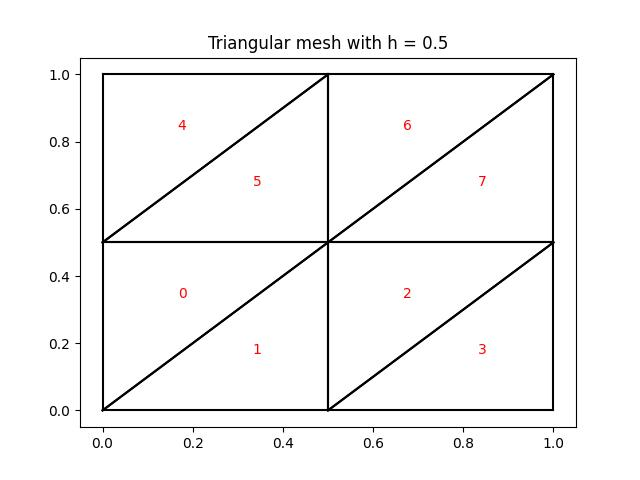
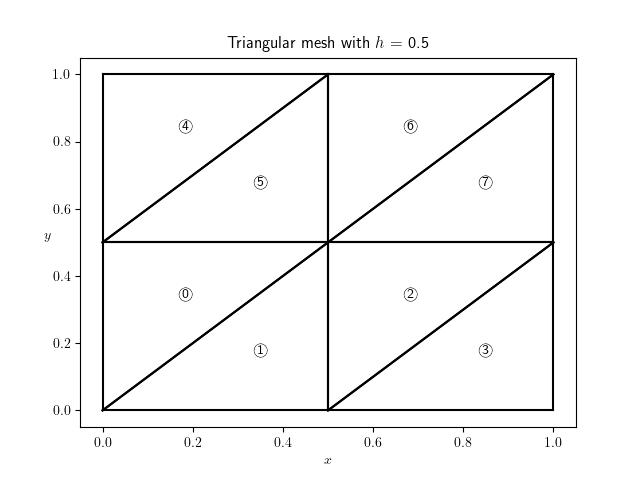
z3 element matrices now work

diff --git a/PoissonZ3.py b/PoissonZ3.py
@@ -1,5 +1,9 @@
 import numpy as np
 import matplotlib.pyplot as plt
+from scipy import integrate
+import cProfile
+plt.rcParams['text.usetex'] = True #for nice plots
+import time
 class Triangle:
     def __init__(self, vertices, VertexNumbers, GlobalNumber = 0):
         self.x_0 = np.array(vertices[0])
@@ -7,9 +11,7 @@ class Triangle:
         self.x_2 = np.array(vertices[2])
         self.vertices = vertices
         self.GlobalNumber = GlobalNumber
-        self.VertexNumbers = VertexNumbers
-        self.bvector = [self.x_1[1]- self.x_2[1], self.x_2[1]- self.x_0[1], self.x_0[1]- self.x_1[1]] #useful later
-        self.cvector = [self.x_2[0]- self.x_1[0], self.x_0[0]- self.x_2[0], self.x_1[0]- self.x_0[0]]
+        self.VertexNumbers = rearange_vertices(VertexNumbers)
     def area(self):
         return 0.5 * np.abs(np.cross(self.x_1 - self.x_0, self.x_2 - self.x_0))
     def __str__(self):
@@ -42,7 +44,14 @@ class Triangle:
             RHS[i] = 1
             solution.append(np.linalg.solve(LHS, RHS))
         return np.array(solution)
-
+def rearange_vertices(lst):
+    ## for vertex ordering
+    res = list()
+    for i in lst:
+        res.append(3*i)
+        res.append(3*i+1)
+        res.append(3*i+2)
+    return res
 
 class Vertex:
     def __init__(self, coordinates, global_number, boundary):
@@ -64,29 +73,63 @@ class Mesh:
             plt.plot([triangle.x_1[0], triangle.x_2[0]], [triangle.x_1[1], triangle.x_2[1]], 'k-')
             plt.plot([triangle.x_2[0], triangle.x_0[0]], [triangle.x_2[1], triangle.x_0[1]], 'k-')
             if numbering:
-                plt.text(triangle.COM()[0], triangle.COM()[1], str(triangle.GlobalNumber), color = 'red')
-                # plt.text(triangle.x_0[0], triangle.x_0[1], str(triangle.VertexNumbers[0]))
-                # plt.text(triangle.x_1[0], triangle.x_1[1], str(triangle.VertexNumbers[1]))
-                # plt.text(triangle.x_2[0], triangle.x_2[1], str(triangle.VertexNumbers[2]))
-        plt.title(f"Triangular mesh with h = {self.h}")
-        plt.savefig("mesh.jpg")
+                plt.text(triangle.COM()[0], triangle.COM()[1], str(fr"\textcircled{triangle.GlobalNumber}")) #color = 'red')
+                plt.text(triangle.x_0[0], triangle.x_0[1], 0)#str(triangle.VertexNumbers[0]))
+                plt.text(triangle.x_1[0], triangle.x_1[1], 1)#str(triangle.VertexNumbers[1]))
+                plt.text(triangle.x_2[0], triangle.x_2[1], 2)#str(triangle.VertexNumbers[2]))
+        plt.title(fr"Triangular mesh with $h$ = {self.h}")
+        plt.xlabel(r'$x$')
+        plt.ylabel(r'$y$', rotation = 0)
+        plt.show()
     def WhatsInside(self):
         for triangle in self.triangles:
             print(triangle)
     def ConnectivityMatrix(self):
-        CMatrix = np.zeros((len(self.triangles), 3))
+        CMatrix = np.zeros((len(self.triangles), 10))
         for i in range(len(self.triangles)):
-            for j in range(3):
+            for j in range(10):
                 CMatrix[i][j] = self.triangles[i].VertexNumbers[j]
         return CMatrix
 class PoissonZ3Solver:
-    def __init__(self, mesh, bc):
+    def __init__(self, mesh, bc=0):
         self.mesh = mesh
         self.bc = bc
     def IntegrationMatrixLHS(self):
+        # x = sp.Symbol('x')
+        # y = sp.Symbol("y")
+        # symb_vec =np.array([1, x, y, x**2, y**2, x*y, x**3, y**3, x**2*y, x*y**2])
+        power_vec =[[0,0], [1, 0], [0, 1], [2, 0], [0,2], [1, 1], [3, 0], [0,3], [2, 1], [1,2]]
         n_triangles = len(self.mesh.triangles)
         ElementMatrix = np.zeros((n_triangles, 10, 10))
-        
+        for k in range(n_triangles):
+            c = self.mesh.triangles[k].LocalCubic() #coefficient matrix
+            for i in range(10):
+                for j in range(10):
+                    ## create a vector with c^i_kc^j_l coefficients as outlined in project
+                    if j>=i:#taking advantage of the symmetry
+                        v_0 = c[i][1]*c[j][1] + c[i][2]*c[j][2]
+                        v_1 = 2*c[i][3]*c[j][1] + 2*c[i][1]*c[j][3] +c[i][5]*c[j][2] +c[i][2]*c[j][5]
+                        v_2 = 2*c[i][4]*c[j][2] +2*c[i][4]*c[j][2] +c[i][5]*c[j][1] +c[i][1]*c[j][5]
+                        v_3 = 3*c[i][6]*c[j][1] +3*c[i][1]*c[j][6] +4*c[i][3]*c[j][3] +c[i][8]*c[j][2] +c[i][2]*c[j][8] +c[i][5]*c[j][5]
+                        v_4 = c[i][9]*c[j][1] +c[i][1]*c[j][9] +c[i][5]*c[j][5] +3*c[i][7]*c[j][2] +3*c[i][2]*c[j][7] +4*c[i][4]*c[j][4]
+                        v_5 = 2*c[i][8]*c[j][1] +2*c[i][1]*c[j][8] +c[i][5]*c[j][3] +c[i][3]*c[j][5] +2*c[i][2]*c[j][9] +2*c[i][9]*c[j][2] +c[i][5]*c[j][4] +c[i][4]*c[j][5]
+                        v_6 = 6*c[i][3]*c[j][6] +6*c[i][6]*c[j][3] +c[i][5]*c[j][8] +c[i][8]*c[j][5]
+                        v_7 = c[i][5]*c[j][9] +c[i][9]*c[j][5] +6*c[i][4]*c[j][7] +6*c[i][7]*c[j][4]
+                        v_8 = 3*c[i][6]*c[j][5] +3*c[i][5]*c[j][6] +4*c[i][3]*c[j][8] +4*c[i][8]*c[j][3] +2*c[i][8]*c[j][4] +2*c[i][4]*c[j][8] +2*c[i][5]*c[j][9] +2*c[i][9]*c[j][5]
+                        v_9 = 3*c[i][7]*c[j][5] +3*c[i][5]*c[j][7] +4*c[i][4]*c[j][9]+ 4*+c[i][9]*c[j][4] +2*c[i][8]*c[j][5] +2*c[i][5]*c[j][8] +2*c[i][3]*c[j][9] +2*c[i][9]*c[j][3]
+                        vec = np.array([v_0, v_1, v_2, v_3, v_4, v_5, v_6, v_7, v_8, v_9])
+                        for numb in range(10):## integration over the triangles, probably better to do analytically
+                            f = lambda x,y: x**(power_vec[numb][0])*y**(power_vec[numb][1])
+                            if i%2==0:##upward oriented
+                                val = integrate.dblquad(f, self.mesh.triangles[k].x_2[0], self.mesh.triangles[k].x_2[0]+self.mesh.h,
+                                                                                     lambda x: x-self.mesh.triangles[k].x_2[0]+self.mesh.triangles[k].x_2[1]-self.mesh.h, self.mesh.triangles[k].x_2[1])[0]
+                                ElementMatrix[k][i][j]+=vec[numb]*val
+                            else:##downward oriented
+                                ElementMatrix[k][i][j]+=vec[numb]*integrate.dblquad(f, self.mesh.triangles[k].x_0[0]-self.mesh.h, self.mesh.triangles[k].x_0[0],
+                                                                                    self.mesh.triangles[k].x_0[1],lambda x: x-self.mesh.triangles[k].x_0[0]+self.mesh.triangles[k].x_0[1]+self.mesh.h)[0]
+                    else:
+                        ElementMatrix[k][i][j] = ElementMatrix[k][j][i]
+        return ElementMatrix
 def generateMesh_UnitSquare(h = 0.2):
     x = y = np.linspace(0, 1, int(1/h)+1)
     x_grid, y_grid = np.meshgrid(x, y)
@@ -112,12 +155,15 @@ def generateMesh_UnitSquare(h = 0.2):
             v2 = vertices[i+1][j]
             v3 = vertices[i+1][j+1]
             v4 = vertices[i][j+1]
-            triangles.append(Triangle([v1.coordinates, v2.coordinates, v3.coordinates], [v1.global_number, v2.global_number, v3.global_number], loopcounter)) ##lower triangle
-            triangles.append(Triangle([v4.coordinates, v1.coordinates, v3.coordinates], [v4.global_number, v1.global_number, v3.global_number], loopcounter+1)) ## upper triangle
+            triangles.append(Triangle([v1.coordinates, v3.coordinates, v2.coordinates], [v1.global_number, v3.global_number, v2.global_number], loopcounter)) ##lower triangle
+            triangles.append(Triangle([v4.coordinates, v3.coordinates, v1.coordinates], [v4.global_number, v3.global_number, v1.global_number], loopcounter+1)) ## upper triangle
             loopcounter+=2
     vertices = vertices.reshape((len(x)*len(y)))
     return Mesh(vertices, triangles, h)
 def main():
-    mesh = generateMesh_UnitSquare(1/2)
-    mesh.plot(numbering=True)
-main()
+    mesh = generateMesh_UnitSquare(0.25)
+    soln = PoissonZ3Solver(mesh)
+    #soln.IntegrationMatrixLHS()
+    print(mesh.triangles[2].VertexNumbers)
+if __name__=="__main__":
+    main()
